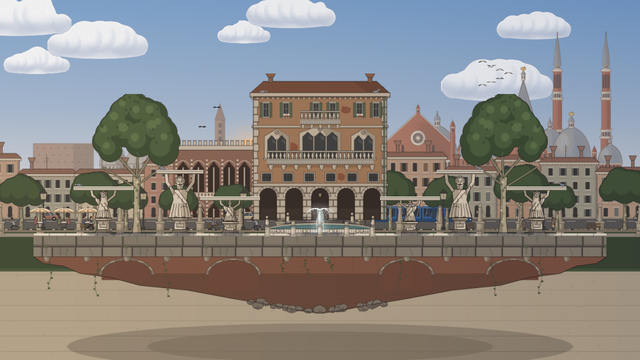
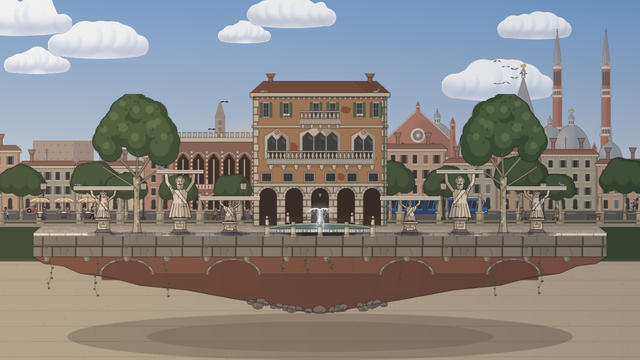
Padova: il piano dell'isola in profondità e lo sfondo dietro (#300)
Il lastricato dell'isola si vede in prospettiva, gli strati dello sfondo
salgono (8, 24, 30 px) con passanti, bar, traffico e lampioni, e il palazzo
scende fino al pavimento.

Claude-Session: https://claude.ai/code/session_01Bf1d2rFJnp9n4pFf7DSqn4

diff --git a/src/shared/stages.ts b/src/shared/stages.ts
@@ -471,7 +471,9 @@ export const STAGES: Record<string, StageSpec> = {
         { hazard: 0, file: "ciclista.png", frames: 8, fps: 16, scale: 0.58, footX: 150, footY: 312, shout: { text: "CANCAROOOO!", x: 200, y: 110 } },
       ],
       props: [
-        { file: "palazzo.png", x: 960, y: 480, scale: 0.5 }, // il palazzo signorile: la facciata, dietro a tutto il palco
+        { file: "palazzo.png", x: 960, y: 522, scale: 0.5 }, // il palazzo signorile: la facciata, dietro a tutto il palco
+        // Il piano dell'isola in profondità (#300): il lastricato dietro il bordo, su cui poggiano palazzo, statue e platani
+        { file: "piano.png", x: 960, y: 524, scale: 0.5 },
         // Due platani sulla piazza (#288), dietro alle statue: la chioma sta sopra le teste e lascia vedere il palco
         { file: "platano.png", x: 410, y: 522, scale: 0.5 },
         { file: "platano.png", x: 1510, y: 522, scale: 0.5, flip: true },
@@ -516,21 +518,22 @@ export const STAGES: Record<string, StageSpec> = {
         birds: { y: 40, parallax: 0.2, everyMs: 14000 },
         // Sulle punte delle lastre delle statue e sul cornicione del palazzo
         pigeons: [{ x: 485, y: 330 }, { x: 1435, y: 330 }, { x: 235, y: 380 }, { x: 1685, y: 380 }, { x: 790, y: 100 }, { x: 1130, y: 100 }],
-        walkers: { y: 510, parallax: 0.75, count: 14, umbrellas: true },
+        // Lo sfondo è salito per stare dietro il piano dell'isola (#300, LIFT in padova.py): prato e bar 30 px, strada 24
+        walkers: { y: 480, parallax: 0.75, count: 14, umbrellas: true },
         // Il tram e il traffico passano sulla strada davanti ai portici (#278): più giù le piazze li coprirebbero
-        vehicles: { y: 488, parallax: 0.5, everyMs: 23000, kind: "tram" },
-        traffic: { y: 488, parallax: 0.5, everyMs: 2600, kinds: ["auto", "auto", "auto", "vespa", "vespa", "furgone", "bici", "bus"] },
+        vehicles: { y: 464, parallax: 0.5, everyMs: 23000, kind: "tram" },
+        traffic: { y: 464, parallax: 0.5, everyMs: 2600, kinds: ["auto", "auto", "auto", "vespa", "vespa", "furgone", "bici", "bus"] },
         flyers: { y: 90, parallax: 0.6, count: 7 }, // rondini sul Prato, di notte i pipistrelli
         planes: { y: -60, everyMs: 75000 },
-        bar: { x: 120, y: 504, parallax: 0.8, tables: 3, spacing: 72 }, // il chiosco dello spritz sul prato
+        bar: { x: 120, y: 474, parallax: 0.8, tables: 3, spacing: 72 }, // il chiosco dello spritz sul prato
         daycycle: {
           cycleMs: 240000, // un giorno intero in 4 minuti: alba, giorno, tramonto e notte
           startAt: 0.8, // si parte poco dopo l'alba
           sky: true, // il cielo vivo dietro alle sagome di Santa Giustina e del Santo (#267)
-          lamps: [90, 390, 690, 990, 1290, 1590, 1890, 2190].map((x) => ({ x: x - 260, y: 409, parallax: 0.75 })), // i lampioni del prato
+          lamps: [90, 390, 690, 990, 1290, 1590, 1890, 2190].map((x) => ({ x: x - 260, y: 379, parallax: 0.75 })), // i lampioni del prato
           // Di notte i vetri accesi del palazzo, delle case e della città lontana, e le lanterne dei lampioni (#288)
           lightLayers: [0, 1, 2].map((i) => ({ file: `sfondo-${i}-luci.png`, parallax: [0.15, 0.45, 0.75][i] })),
-          lightProps: [{ file: "palazzo-luci.png", x: 960, y: 480, scale: 0.5 }],
+          lightProps: [{ file: "palazzo-luci.png", x: 960, y: 522, scale: 0.5 }],
         },
       },
     },

diff --git a/tools/arene/padova.py b/tools/arene/padova.py
@@ -367,6 +367,7 @@ def statue(name, total_h, slab_w, kind):
 # Gli strati sono centrati sul centro dell'arena (960, 360) e larghi 2440×1480 di mondo: l'angolo in alto a sinistra
 # è nel mondo a (-260, -380). Più uno strato è lontano, più i colori vanno verso la foschia e l'inchiostro schiarisce.
 LW, LH = 2440, 1480
+LIFT = (8, 24, 30)  # quanto sale ogni strato (#300): sfondo-0, 1, 2 (vedi layer)
 L_ORIGIN = (960 - LW / 2, 360 - LH / 2)
 HAZE = (176, 190, 202, 255)  # la foschia del giorno, verso cui sbiadiscono le cose lontane
 
@@ -389,11 +390,14 @@ def lit_rect(lt, x0, y0, x1, y1):
     lit_window(lt, [(x0, y0), (x1, y0), (x1, y1), (x0, y1)])
 
 
-def layer(name, draw, lights=None):
+def layer(name, draw, lights=None, lift=0):
     """Uno strato dello sfondo: draw(t) disegna sulla tela in pixel di mondo; il file esce a 2x (art.scale 0.5).
-    Con lights, anche l'immagine delle luci della notte (#288): solo i vetri accesi, nello stesso posto."""
-    t = Tela(LW, LH, origin=L_ORIGIN, ss=1)
-    t.lights = Tela(LW, LH, origin=L_ORIGIN, ss=1) if lights else None
+    Con lights, anche l'immagine delle luci della notte (#288): solo i vetri accesi, nello stesso posto.
+    lift (#300): di quanti pixel di mondo sale tutto lo strato. Più è lontano, più la sua terra sta in alto, dietro
+    il piano dell'isola: così la prospettiva torna. Le y di stages.ts (passanti, traffico, lampioni) salgono uguali."""
+    origin = (L_ORIGIN[0], L_ORIGIN[1] + lift)
+    t = Tela(LW, LH, origin=origin, ss=1)
+    t.lights = Tela(LW, LH, origin=origin, ss=1) if lights else None
     draw(t)
     t.save(OUT, name, colors=256)
     if lights:
@@ -1182,15 +1186,71 @@ def lawn(t):
     t.line([(px + 2, base - 113), (px + 11, base - 113)], fill=(150, 60, 56, 255), width=1.4)
 
 
+def piano(name):
+    """Il piano dell'isola visto un po' dall'alto (#300): il lastricato di trachite che dal bordo calpestabile
+    (y 520, il più chiaro, lo disegna bordo.png) si allontana fino al ciglio di dietro (y 496). I giunti delle lastre
+    scappano verso il centro e le file si stringono andando indietro: così si capisce che l'isola ha una profondità
+    e che lo sfondo sta dietro. Sotto statue, platani e palazzo un'ombra morbida di contatto li appoggia a terra.
+    Prop in x 960, y 524, dietro alle statue e davanti al palazzo."""
+    x0, x1, y0, y1 = 80, 1840, 488, 524
+    t = Tela(x1 - x0, y1 - y0, origin=(x0, y0))
+    back, front, vx = 496, 520, 960
+    narrow = 0.034  # quanto si stringe il ciglio di dietro rispetto al bordo davanti
+
+    def at(xf, y):  # dove sta, alla quota y, il punto che sul bordo davanti è a xf
+        return vx + (xf - vx) * (1 - narrow * (front - y) / (front - back))
+
+    rng = rand(300)
+    rows = [496, 499.5, 504, 509.5, 516, 521]  # le file si allargano venendo avanti
+    base = mix(EDGE, STONE_LIGHT, 0.42)
+    far_col = mix(EDGE, STONE, 0.62)
+    for r, (ya, yb) in enumerate(zip(rows, rows[1:])):
+        k = r / (len(rows) - 2)  # 0 il ciglio di dietro, 1 davanti
+        row_col = mix(far_col, base, k)
+        step = 44
+        off = (r % 2) * step / 2 - step
+        xf = 100 + off
+        while xf < 1820:
+            a, b = max(100, xf), min(1820, xf + step)
+            if b - a > 1:
+                col = mix(row_col, shade(row_col, 0.9), rng.random() * 0.6)
+                t.poly([(at(a, ya), ya), (at(b, ya), ya), (at(b, yb), yb), (at(a, yb), yb)], fill=col)
+                if rng.random() < 0.25:  # qualche lastra consumata, più chiara al centro
+                    cx = (at(a, ya) + at(b, yb)) / 2
+                    t.glaze([(cx - 8, (ya + yb) / 2), (cx, ya + 0.6), (cx + 9, (ya + yb) / 2), (cx, yb - 0.4)], (255, 250, 236, 40))
+            xf += step
+        # i giunti: la riga della fila e i tagli tra le lastre, verso il punto di fuga
+        joint = mix(STONE_SHADE, row_col, 0.35)
+        t.line([(at(100, ya), ya), (at(1820, ya), ya)], fill=joint, width=0.5 + 0.35 * k)
+        xf = 100 + off
+        while xf < 1820:
+            if xf > 100:
+                t.line([(at(xf, ya), ya), (at(xf, yb), yb)], fill=joint, width=0.45 + 0.3 * k)
+            xf += step
+    # il ciglio di dietro: lo spigolo della pietra e un filo d'ombra, poi c'è lo sfondo
+    t.line([(at(100, back), back), (at(1820, back), back)], fill=shade(far_col, 0.7), width=1.0)
+    # ombre di contatto: le basi delle statue, i platani e il palazzo poggiano sul lastricato
+    for cx, w in ((310, 36), (540, 40), (690, 36), (1230, 36), (1380, 40), (1610, 36), (410, 22), (1510, 22)):
+        for i, (ww, a) in enumerate(((w * 1.4, 14), (w * 1.1, 20), (w * 0.8, 26))):
+            t.glaze([(cx + math.cos(u) * ww, 515 + math.sin(u) * (3 + i)) for u in [j * math.tau / 24 for j in range(24)]], (40, 36, 32, a))
+    for i, (h, a) in enumerate(((7, 30), (4, 40), (2, 50))):  # il palazzo sta sul ciglio di dietro
+        t.glaze([(at(756, back), back), (at(1164, back), back), (at(1170, back + h), back + h), (at(750, back + h), back + h)], (40, 36, 32, a))
+    t.save(OUT, name)
+
+
+GROUND = 522  # il pavimento dell'isola, dove poggiano palazzo, statue e platani
+
+
 def palazzo(name):
     """Il palazzo signorile al centro, dietro il ponte (#280 passo 2), x 740-1180, y 40-480, a 2x.
 
     Portico a bugnato con i conci sugli archi, mezzanino con le inferriate, piano nobile con la trifora gotica e
     le bifore (le luci di notte stanno su queste finestre: art.life.daycycle.windows), ultimo piano con le persiane,
     cornicione con le mensole, tetto di coppi e camini a imbuto. L'intonaco caldo ha qualche scrostatura che mostra
-    i mattoni. I balconi veri sono piattaforme (y 300 e 180): qui ci sono solo le mensole sotto."""
-    t = Tela(440, 440, origin=(740, 40))
-    lt = Tela(440, 440, origin=(740, 40))  # le luci della notte (#288): solo i vetri accesi, nello stesso posto
+    i mattoni. I balconi veri sono piattaforme (y 300 e 180): qui ci sono solo le mensole sotto.
+    Il portico arriva fino al pavimento dell'isola, a y 522 (#300): prima finiva a 480 e il palazzo sembrava sollevato."""
+    t = Tela(440, 482, origin=(740, 40))
+    lt = Tela(440, 482, origin=(740, 40))  # le luci della notte (#288): solo i vetri accesi, nello stesso posto
     rng = rand(21)
     plaster, plaster_s = (156, 122, 94, 255), (132, 102, 78, 255)
     stone, stone_s = (188, 182, 168, 255), (156, 148, 135, 255)  # un po' più spenta dei balconi, che si calpestano
@@ -1199,7 +1259,7 @@ def palazzo(name):
     brick = (132, 84, 66, 255)
 
     # --- corpo: intonaco, le ombre portate le mettono cornici e balconi ---
-    t.rect(760, 110, 1160, 480, fill=plaster)
+    t.rect(760, 110, 1160, GROUND, fill=plaster)
     # scrostature: l'intonaco caduto mostra i mattoni, col bordo chiaro dell'intonaco rotto
     for (px, py, pw, ph) in ((1022, 138, 32, 24), (869, 246, 26, 40), (1012, 338, 24, 26)):
         pts = [(px + pw * u, py + ph * v) for u, v in ((0.1, 0), (0.6, 0.05), (1, 0.3), (0.9, 0.8), (0.5, 1), (0, 0.7))]
@@ -1216,9 +1276,9 @@ def palazzo(name):
             xx = x0 if x0 == 760 else x0 + 16 - w
             t.block(xx, y0, xx + w, y0 + 22, stone, sh=stone_s, bottom=3, width=0.9)
 
-    # --- portico a bugnato (y 380-480) ---
-    t.rect(760, 380, 1160, 480, fill=stone)
-    for row in range(5):
+    # --- portico a bugnato (y 380-522), sullo zoccolo ---
+    t.rect(760, 380, 1160, GROUND, fill=stone)
+    for row in range(7):
         y = 380 + row * 20
         off = 0 if row % 2 == 0 else 20
         for x in range(760 - off, 1160, 40):
@@ -1228,17 +1288,17 @@ def palazzo(name):
     for i in range(5):  # archi con i conci a raggiera e la chiave
         ax = 778 + i * 78
         cxa, r = ax + 26, 26
-        t.rect(ax, 410, ax + 52, 480, fill=dark)
+        t.rect(ax, 410, ax + 52, GROUND, fill=dark)
         t.pieslice(ax, 384, ax + 52, 436, 180, 360, fill=dark)
-        t.rect(ax + 4, 446, ax + 48, 480, fill=(54, 48, 44, 255))  # il fondo del portico, appena più chiaro in basso
+        t.rect(ax + 4, 470, ax + 48, GROUND, fill=(54, 48, 44, 255))  # il fondo del portico, appena più chiaro in basso
         for k in range(9):
             a0, a1 = math.pi * k / 9, math.pi * (k + 1) / 9
             out = 10 if k == 4 else 7
             pts = [(cxa - r * math.cos(a0), 410 - r * math.sin(a0)), (cxa - (r + out) * math.cos(a0), 410 - (r + out) * math.sin(a0)),
                    (cxa - (r + out) * math.cos(a1), 410 - (r + out) * math.sin(a1)), (cxa - r * math.cos(a1), 410 - r * math.sin(a1))]
             t.poly(pts, fill=stone if k < 5 else stone_s, ink=True, width=0.8)
-        t.line([(ax, 410), (ax, 480)], fill=INK, width=1.2)
-        t.line([(ax + 52, 410), (ax + 52, 480)], fill=INK, width=1.2)
+        t.line([(ax, 410), (ax, GROUND)], fill=INK, width=1.2)
+        t.line([(ax + 52, 410), (ax + 52, GROUND)], fill=INK, width=1.2)
         if i == 2:  # la lanterna appesa nell'arco centrale
             t.line([(cxa, 386), (cxa, 400)], fill=INK, width=0.8)
             t.poly([(cxa - 4, 400), (cxa + 4, 400), (cxa + 3, 410), (cxa - 3, 410)], fill=(150, 136, 100, 255), ink=True, width=0.7)
@@ -1352,11 +1412,12 @@ def palazzo(name):
         t.rect(cxm - 18, 34, cxm + 18, 38, fill=(150, 112, 92, 255), ink=True, width=0.9)
 
     # --- pluviale di rame, verde spento, con le fascette ---
-    t.rect(1150, 112, 1155, 480, fill=(98, 116, 102, 255), ink=True, width=0.8)
-    for y in range(140, 480, 60):
+    t.rect(1150, 112, 1155, GROUND, fill=(98, 116, 102, 255), ink=True, width=0.8)
+    for y in range(140, GROUND, 60):
         t.rect(1148, y, 1157, y + 3, fill=(70, 80, 72, 255))
     # contorno del palazzo
-    t.rect(760, 110, 1160, 480, ink=True, width=1.4)
+    t.rect(756, GROUND - 8, 1164, GROUND, fill=stone_s, ink=True, width=1.0)  # lo zoccolo
+    t.rect(760, 110, 1160, GROUND, ink=True, width=1.4)
     t.save(OUT, name)
     lt.save(OUT, name.replace(".png", "-luci.png"))
 
@@ -1637,6 +1698,7 @@ if __name__ == "__main__":
     plane_tree_prop("platano.png")
     balcony_rail()
     balcony_floor()
-    layer("sfondo-0.png", sky, "sfondo-0-luci.png")
-    layer("sfondo-1.png", buildings, "sfondo-1-luci.png")
-    layer("sfondo-2.png", lawn, "sfondo-2-luci.png")
+    piano("piano.png")
+    layer("sfondo-0.png", sky, "sfondo-0-luci.png", lift=LIFT[0])
+    layer("sfondo-1.png", buildings, "sfondo-1-luci.png", lift=LIFT[1])
+    layer("sfondo-2.png", lawn, "sfondo-2-luci.png", lift=LIFT[2])

diff --git a/public/assets/CREDITS.md b/public/assets/CREDITS.md
@@ -8,7 +8,7 @@
 | `characters/bonobot/rig/` (pezzi dello scheletro nuovo, #195) | Claude per Riccardo (GiovannifRana), provvisori disegnati col codice | fatto da noi | CC0 |
 | `stages/palco/` (sfondo a tre strati e anteprima del Palco, E12) | Claude Code per Nicola, disegnati col codice | fatto da noi | CC0 |
 | `stages/generica/` (sfondo delle arene casuali, E12) | Claude Code per Nicola, disegnati col codice | fatto da noi | CC0 |
-| `stages/padova/` (Padova, Prato della Valle, #230: sfondo a tre strati, materiali, ringhiera, statue, arco del ponte, anteprima; ridisegnati a 2x in #280; isola sospesa con la fontana dell'Isola Memmia, le fondamenta e i platani, luci della notte, nuvole e uccelli dipinti con `tools/arene/pittura.py` e `vita.py` in #288) | idea di Riccardo (GiovannifRana); disegnati col codice da Claude Code con `tools/arene/padova.py` e `tools/arene/disegno.py`, ispirati a Prato della Valle (le foto restano fuori dalla repo) | fatto da noi | CC0 |
+| `stages/padova/` (Padova, Prato della Valle, #230: sfondo a tre strati, materiali, ringhiera, statue, arco del ponte, anteprima; ridisegnati a 2x in #280; isola sospesa con la fontana dell'Isola Memmia, le fondamenta e i platani, luci della notte, nuvole e uccelli dipinti con `tools/arene/pittura.py` e `vita.py` in #288; la Basilica del Santo ridisegnata in #296; il piano dell'isola in profondità in #300) | idea di Riccardo (GiovannifRana); disegnati col codice da Claude Code con `tools/arene/padova.py` e `tools/arene/disegno.py`, ispirati a Prato della Valle (le foto restano fuori dalla repo) | fatto da noi | CC0 |
 | `stages/padova/ciclista.png` (Cancaro Man, il ciclista arrabbiato di Padova, #270) | idea e disegno di riferimento di Riccardo (GiovannifRana); fotogrammi disegnati col codice da Claude Code con `tools/arene/ciclista.py` | fatto da noi | CC0 |
 | `characters/egiainuso/*.png` (il nuovo Egiainuso, #178) | foglio delle pose di @Marcomunista, ritaglio e contorno di Claude per Riccardo (GiovannifRana) con `tools/sprite/egiainuso_dal_foglio.py` | foglio in #178, strumento da chiedere a Marco | da chiedere a Marco |
 | `characters/elvedeo/*.png` | Mauro Grecchi (@MauroGrecchi), ritaglio e pulizia di Claude per Riccardo (GiovannifRana) | foglio in #168, strumento da chiedere a Mauro | da chiedere a Mauro |
